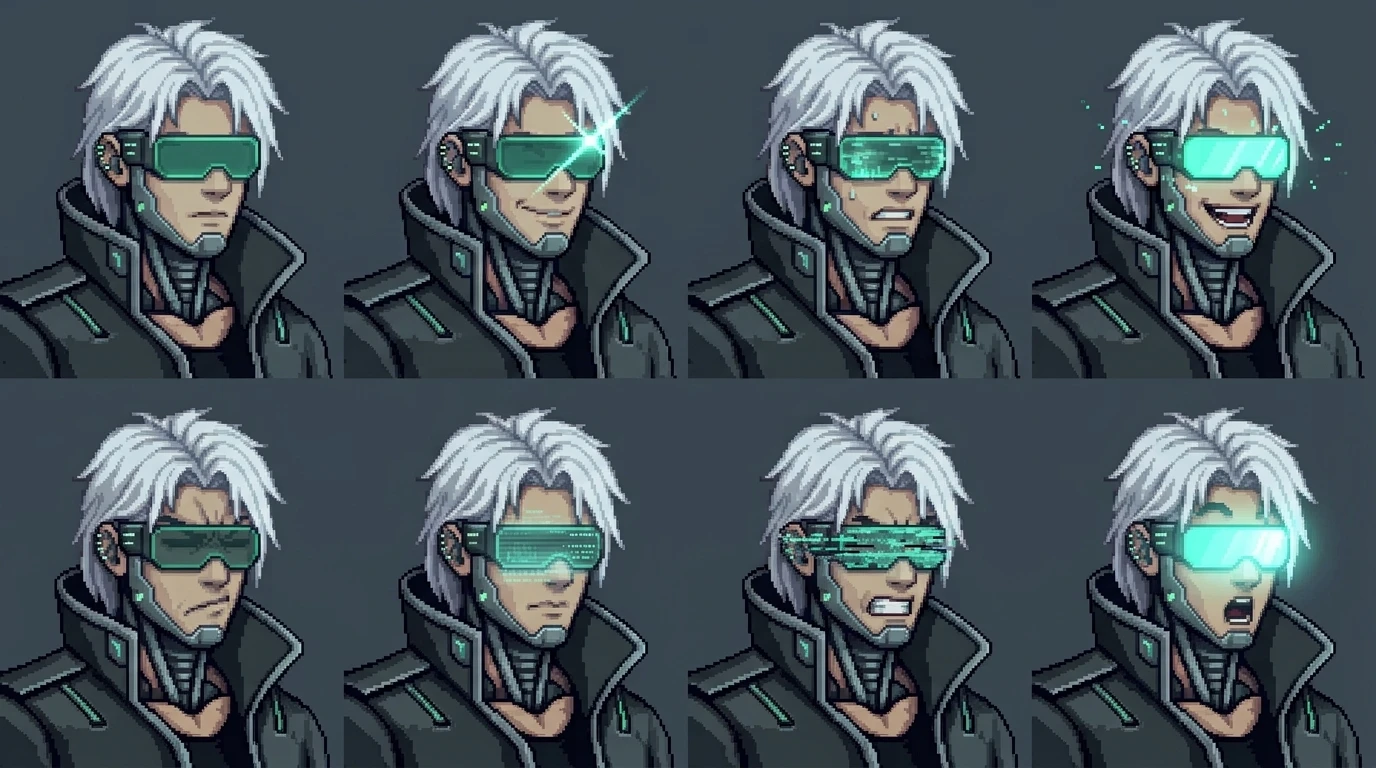
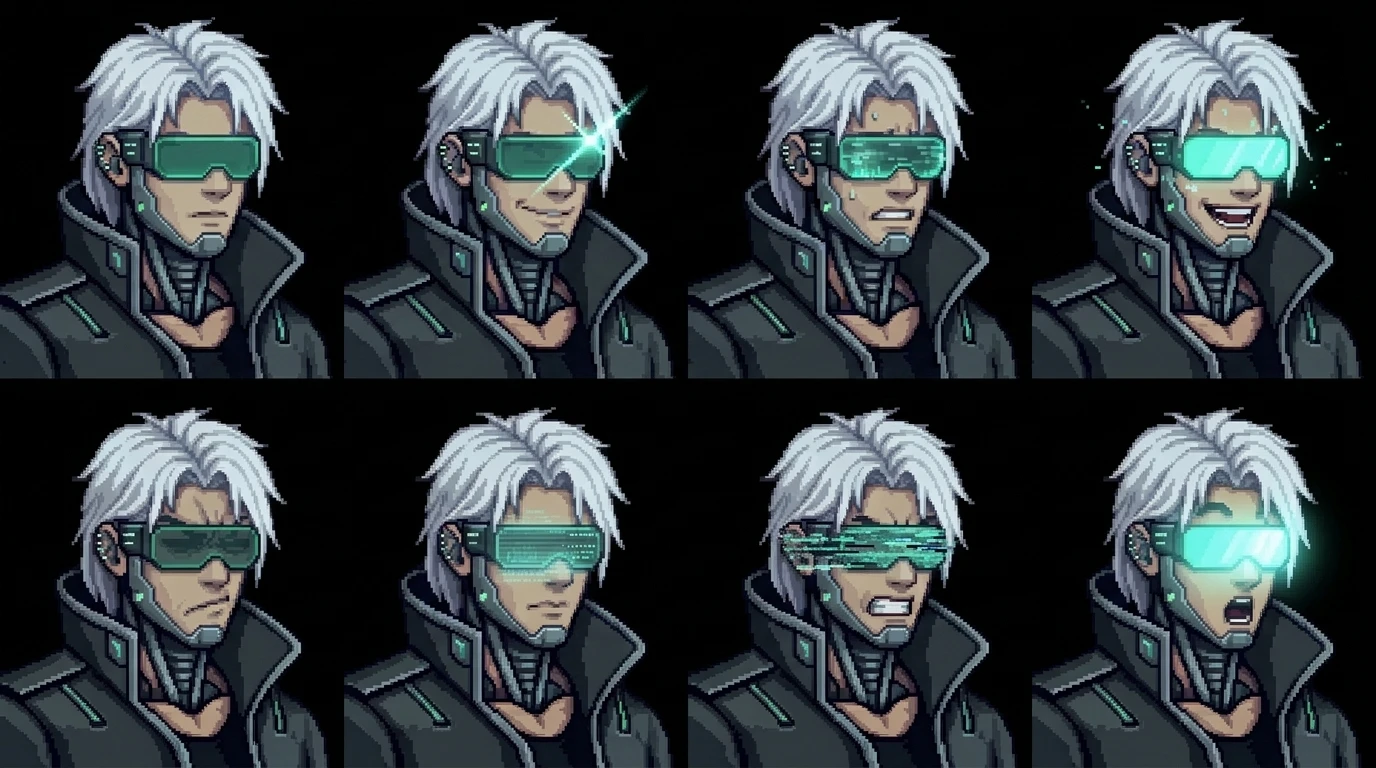
feat: retratos do Zane com fundo preto

diff --git a/assets/sprites/personagens/zane/visual.md b/assets/sprites/personagens/zane/visual.md
@@ -34,7 +34,7 @@ Todos em `assets/sprites/personagens/zane/`, gerados por `assets/modelagem/perso
 | `zane_retrato_surpreso.png` | 80 × 80 | boca aberta e o visor aceso de branco-esverdeado |
 | `zane_referencia.png` | — | frente, 3/4, lado e costas, e os retratos antigos do Blender (não os do jogo) |
 
-Os **retratos** não vêm mais do `gerar_zane.py`: saem do `assets/modelagem/personagens/pixelar_retratos.py` (`python assets/modelagem/personagens/pixelar_retratos.py zane`), a partir da folha de oito rostos `assets/modelagem/personagens/zane_referencia/expressoes_oito.webp` (a folha antiga, `expressoes.jpg`, ficou só de referência). O fundo dos retratos não é transparente: é um cinza-azulado liso, porque a jaqueta escura é quase da cor dele. O `gerar_zane.py` só desenha os retratos do Blender na folha de referência e **não** grava os `zane_retrato_*.png`, então pode ser rodado sem perder os novos. O corpo dos sprites (`gerar_zane.py`) segue o mesmo desenho dos retratos: cabelo branco, visor verde e jaqueta escura com linhas de luz.
+Os **retratos** não vêm mais do `gerar_zane.py`: saem do `assets/modelagem/personagens/pixelar_retratos.py` (`python assets/modelagem/personagens/pixelar_retratos.py zane`), a partir da folha de oito rostos `assets/modelagem/personagens/zane_referencia/expressoes_oito.webp` (a folha antiga, `expressoes.jpg`, ficou só de referência). O fundo dos retratos não é transparente: é um **preto liso**, porque a jaqueta escura é quase da cor do fundo e ficaria com buracos no recorte. O `gerar_zane.py` só desenha os retratos do Blender na folha de referência e **não** grava os `zane_retrato_*.png`, então pode ser rodado sem perder os novos. O corpo dos sprites (`gerar_zane.py`) segue o mesmo desenho dos retratos: cabelo branco, visor verde e jaqueta escura com linhas de luz.
 
 - **Escala:** a mesma de todos os personagens (1,75 m do Gabriel = 48 px na tela). O corpo dele tem 1,80 m, e o topete passa disso.
 - **Resolução dobrada:** como o Gabriel, os sprites saem com o dobro de pixels e a cena usa `scale = Vector2(0.5, 0.5)`. Para a esquerda, o Godot espelha o sprite de lado.
